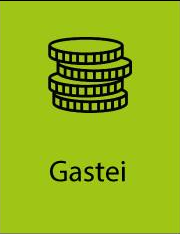
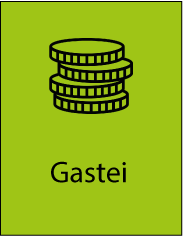
borbinha

diff --git a/css/principal.css b/css/principal.css
@@ -82,5 +82,5 @@ input#barcode {
 
 .iconesprincipais {
     width: 100%;
-    height: 25%;
+    height: 10rem;
 }
